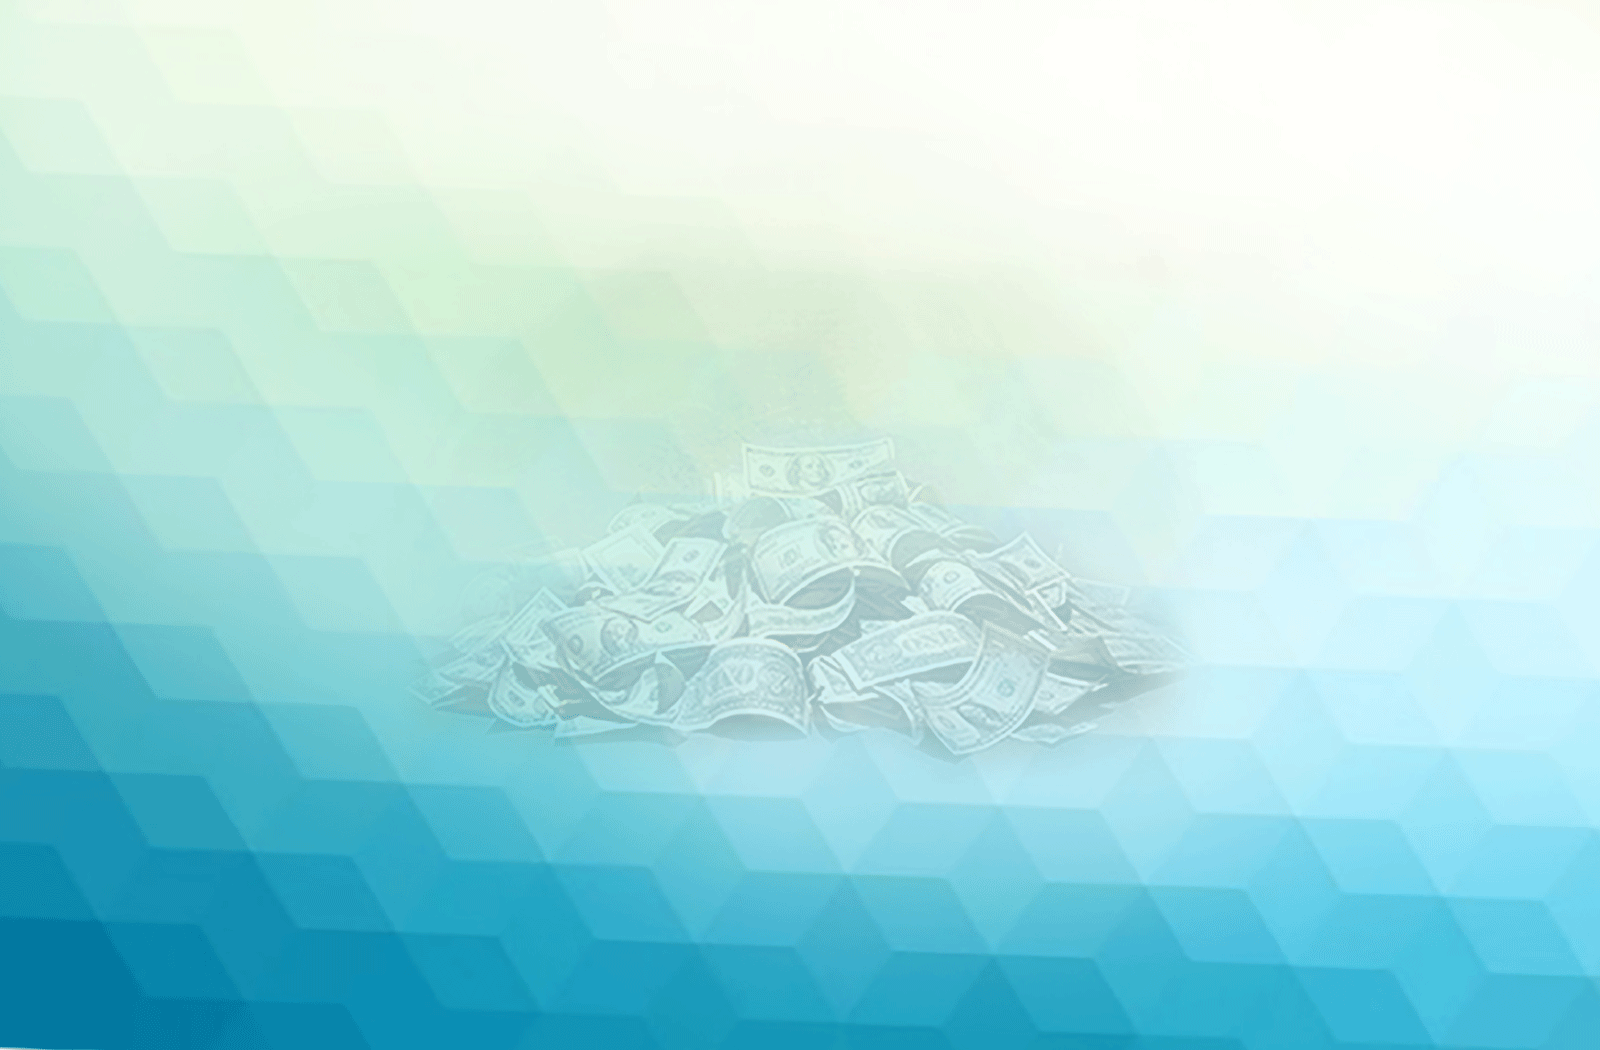
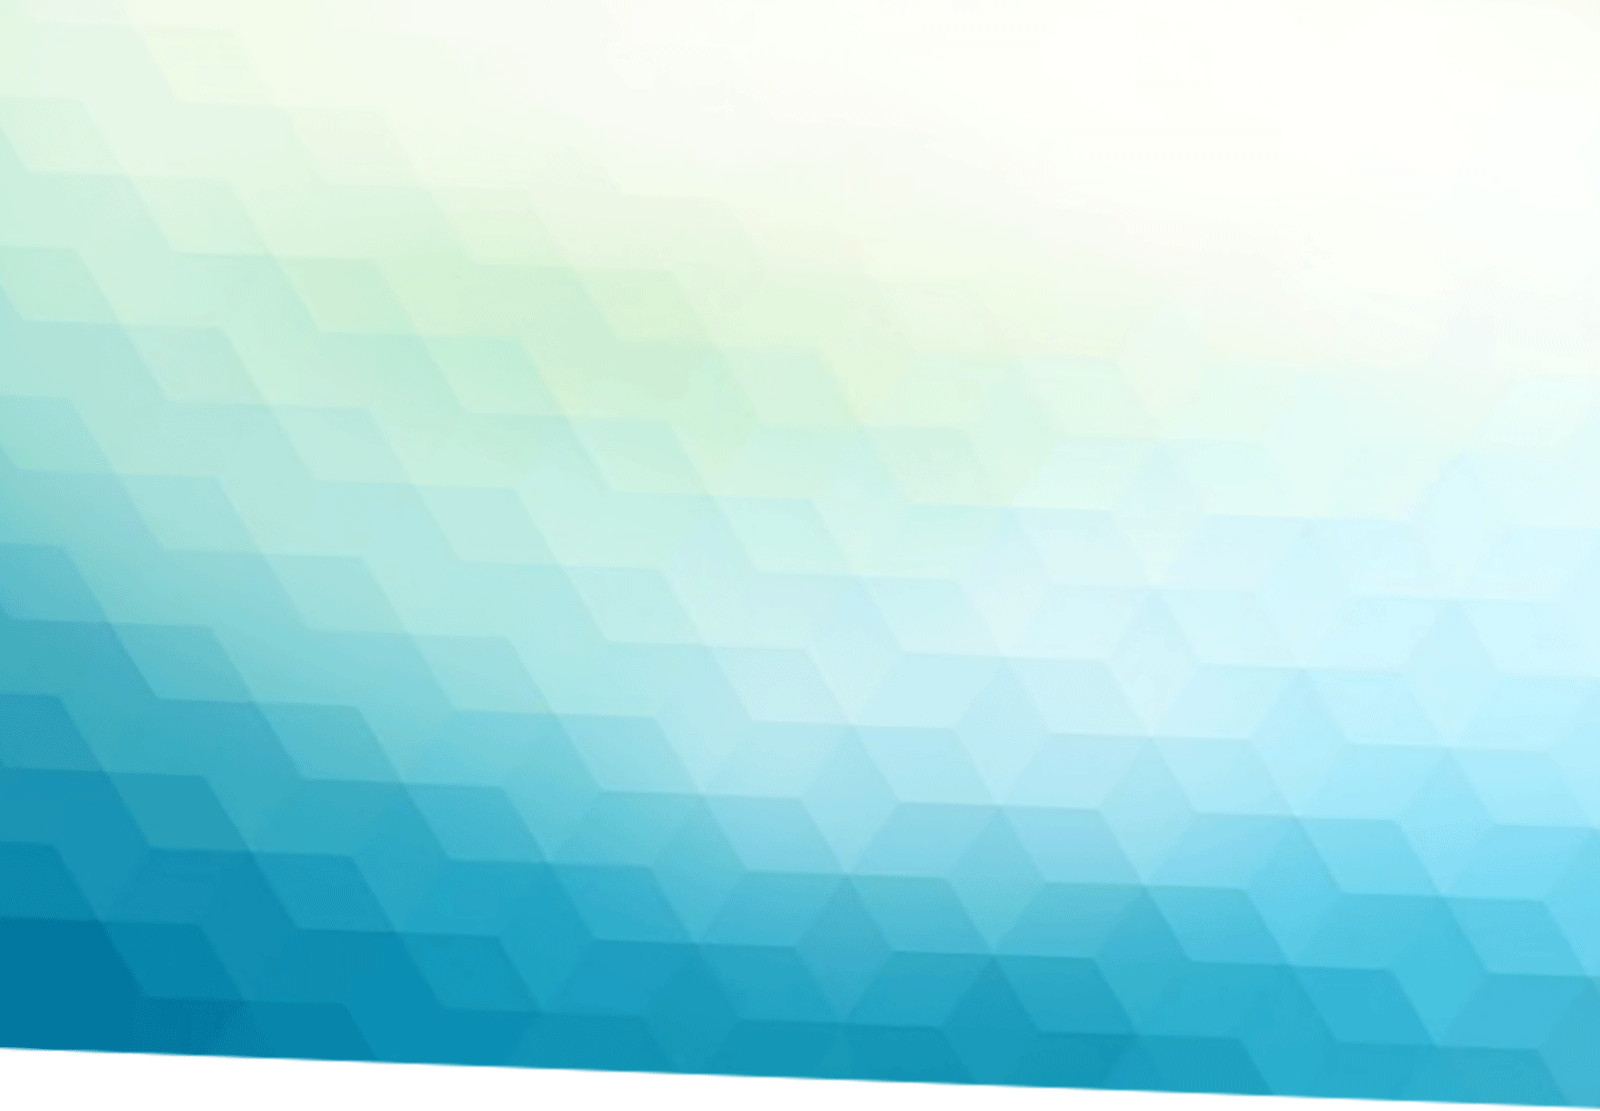
commit

diff --git a/style.css b/style.css
@@ -263,6 +263,12 @@ header div::before {
     color: #fff;
 }
 
+.content::before {
+	content: url(img/icons/money.png);
+	position: absolute;
+	bottom: 25px;
+}
+
 .why-blocks {
 	display: flex; 
 	display: -moz-box; 
